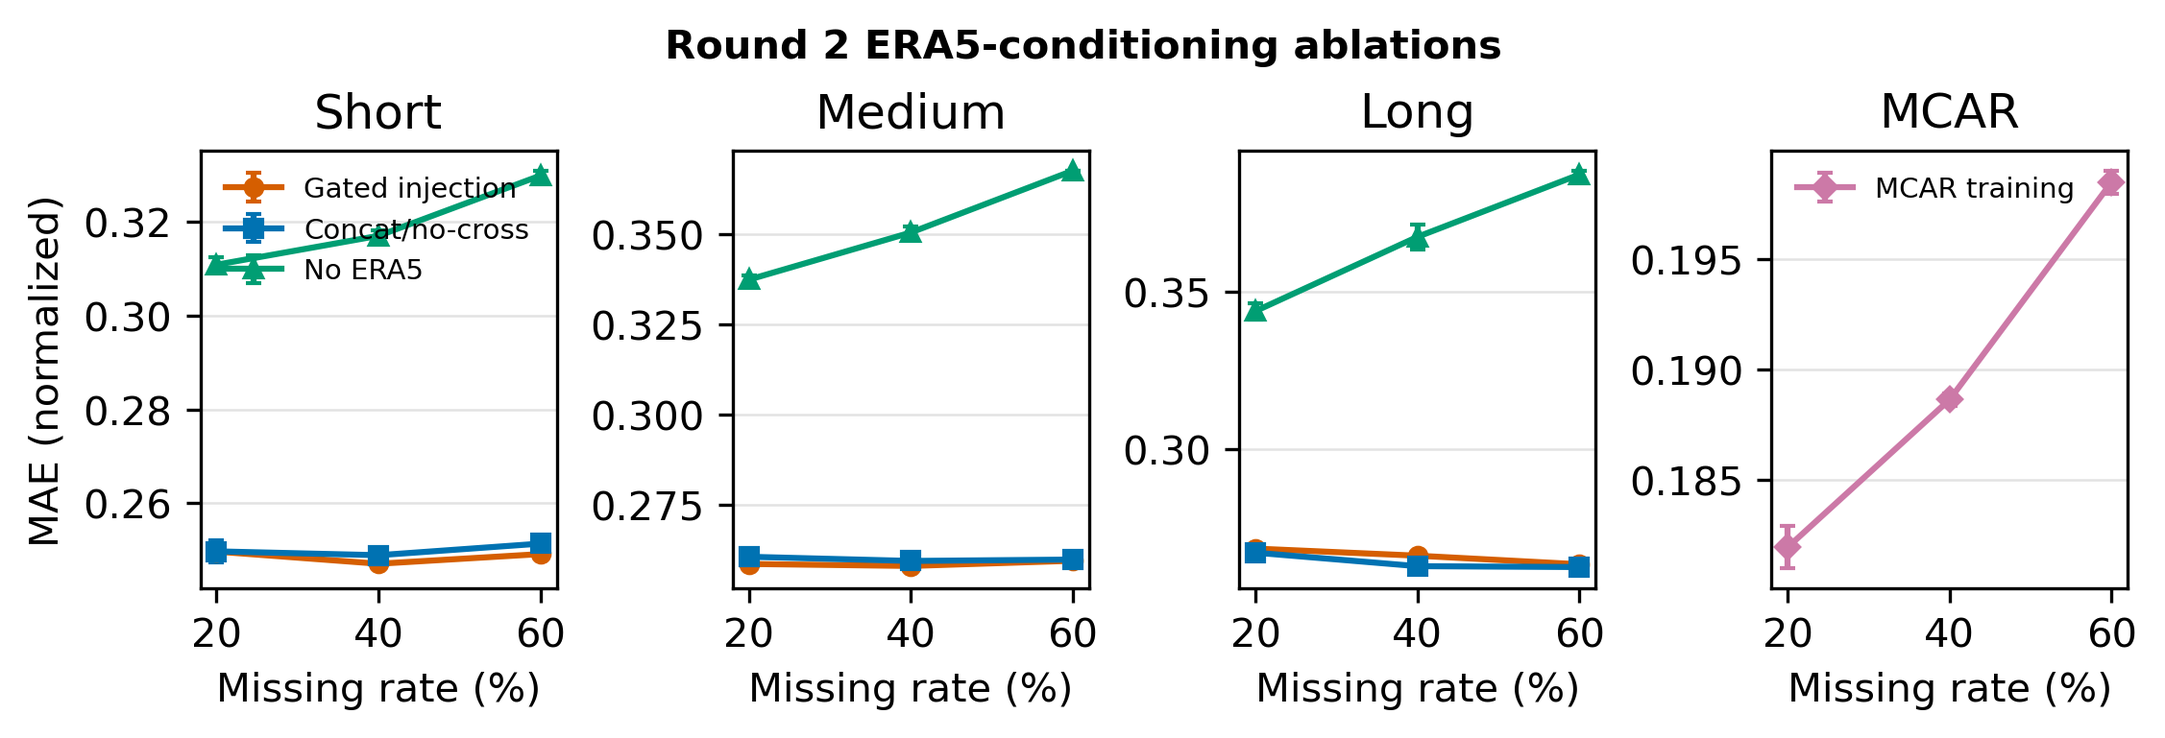
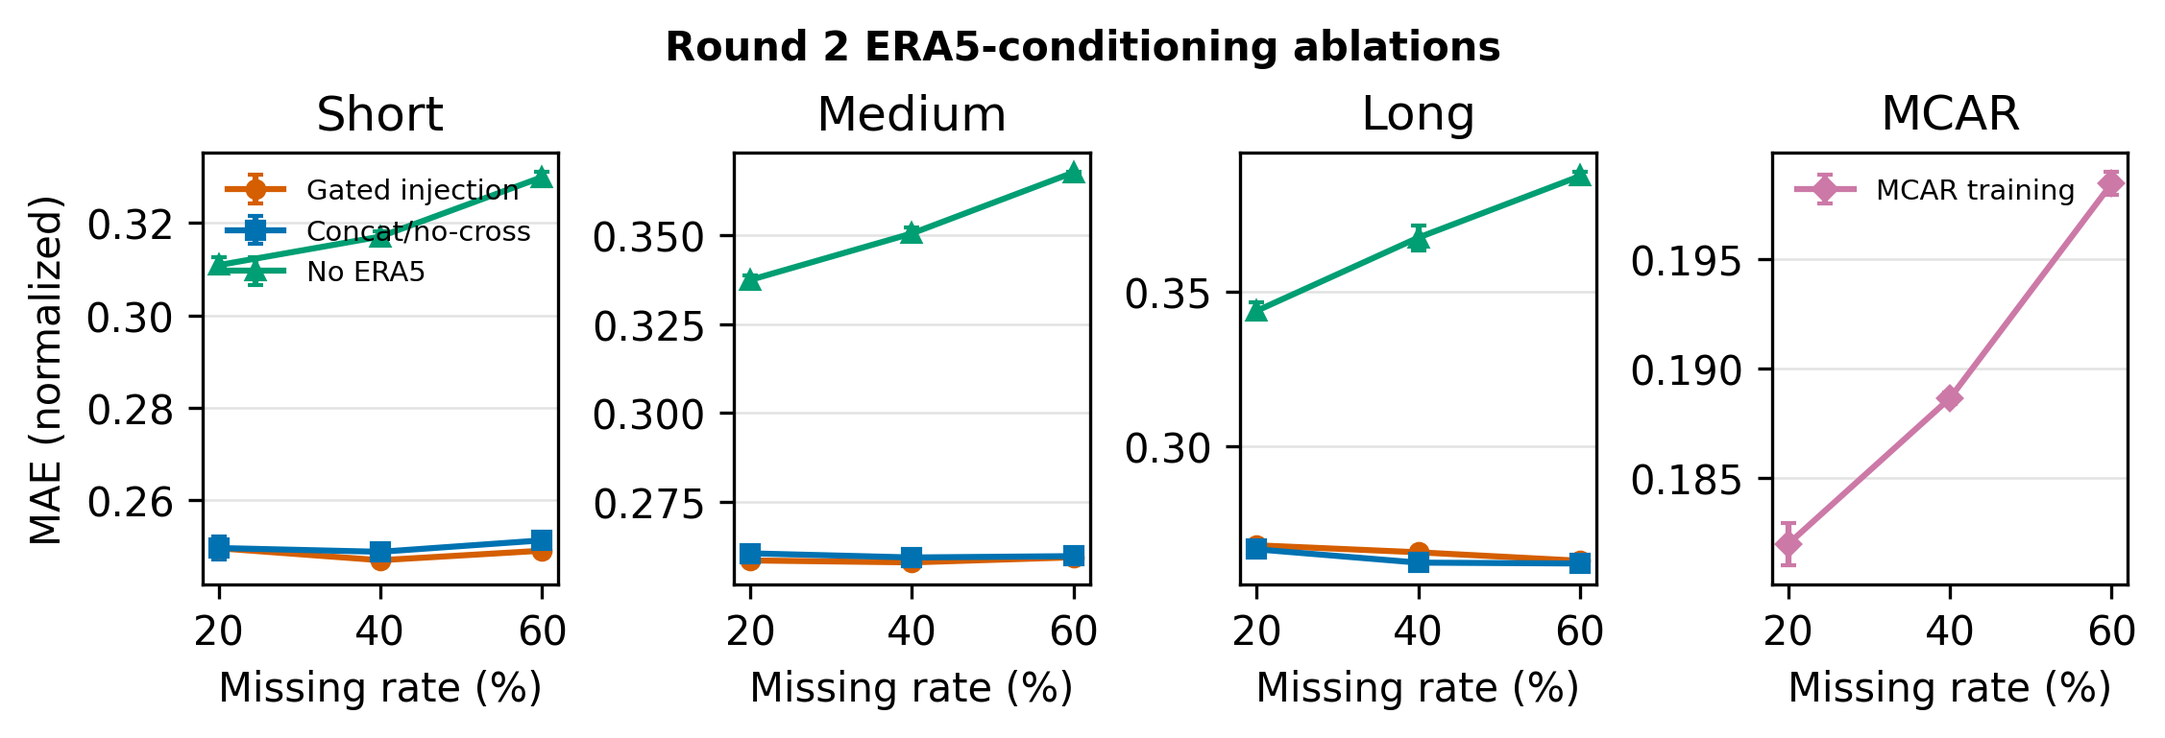
[paper] revise: address peer review comments

diff --git a/paper/sections/experiments.tex b/paper/sections/experiments.tex
@@ -36,13 +36,15 @@ Table~\ref{tab:round2-ablations} and Fig.~\ref{fig:round2-ablations} show the ma
 \begin{figure*}[t]
   \centering
   \includegraphics[width=0.92\textwidth]{figures/fig_round2_ablations.pdf}
-  \caption{ERA5-conditioning ablation results over block-missing and MCAR masking regimes. Removing ERA5 substantially degrades block-imputation accuracy, while gated injection is statistically tied with concat/no-cross fusion. The MCAR training setting is easier and is therefore reported separately rather than compared directly to block-missing results.}
+  \caption{ERA5-conditioning ablation results over block-missing and MCAR masking regimes. Error bars show one standard deviation across seeds and missing rates. Removing ERA5 substantially degrades block-imputation accuracy, while gated injection is statistically tied with concat/no-cross fusion. The MCAR training setting is easier and is therefore reported separately rather than compared directly to block-missing results.}
   \label{fig:round2-ablations}
 \end{figure*}
 
 \input{tables/tab_round2_ablations}
 
 The same ablation also prevents an over-interpretation of the architecture. Gated injection and concat/no-cross fusion are essentially tied, with mean MAE 0.258 in both cases. Therefore, the evidence supports ERA5-conditioned block imputation, but it does not support the stronger claim that a particular fusion layer is necessary.
+
+The MCAR row in Table~\ref{tab:round2-ablations} is included only as a distributional reference. Its MAE is not directly comparable to the block-missing rows because the model is trained and evaluated under a point-wise MCAR mask distribution, whereas the block variants are evaluated under contiguous outage blocks.
 
 \subsection{Does the ERA5 Benefit Increase for Longer Outages?}
 The block-length sensitivity analysis directly tests whether ERA5 is most useful when local station context is weakest. At 40\% missingness, the ERA5/no-ERA5 MAE gap increases from 0.037 for 24-hour blocks to 0.070 for 72-hour blocks and 0.092 for 216-hour blocks. The relative improvement grows from 13.8\% to 26.4\%.
@@ -69,11 +71,11 @@ Table~\ref{tab:curriculum-era5-factorial} completes the factorial check between 
 
 The factorized effect sizes show that block curriculum is the larger main effect. Averaged over ERA5 settings, changing MCAR training to block training reduces MAE by 0.166. Averaged over training curricula, adding ERA5 reduces MAE by 0.105. The difference-in-differences is positive but modest: ERA5 improves MCAR training by 0.122 MAE and block training by 0.088 MAE, corresponding to an effect-coded interaction of 0.017 MAE. Thus, the result is best described as two strong independent main effects with a small positive synergy, not as a purely architectural interaction.
 
-This result also explains why MCAR+ERA5 is worse than block training without ERA5. Under MCAR masks, the model sees scattered local context and can use ERA5 as an instantaneous auxiliary value. Under block failures, the required behavior is different: the model must use the temporal evolution of ERA5 across a long interval where AWS evidence is absent. ERA5 is therefore useful only when the training objective teaches the model to rely on it under contiguous outages.
+This result also explains why MCAR+ERA5 is worse than block training without ERA5. Under MCAR masks, the model usually sees scattered local AWS context at the same or adjacent time steps and can use ERA5 as an instantaneous auxiliary value. Under block failures, the required behavior is different: the model must follow the temporal evolution of ERA5 across a multi-day interval where the target AWS variable is absent. MCAR training does not teach this mode of use; it rewards local patching around isolated missing points rather than sustained reliance on the reanalysis trajectory. Consequently, even an ERA5-equipped MCAR model is less effective on block tests than a no-ERA5 model trained to reconstruct contiguous outages from station-side temporal and cross-variable context.
 
 \subsection{How Well Does the Model Generalize Across Stations?}
 Held-out station evaluation reveals substantial spatial heterogeneity. Mean MAE ranges from 0.173 on Nico to 0.350 on Mount Sidley. This variation is too large to hide behind a single aggregate score and likely reflects differences in station environment, elevation, coastal versus interior regimes, and station-specific ERA5 bias.
 
 \input{tables/tab_round3_heldout}
 
-The held-out results motivate future station-adaptive conditioning, but they do not invalidate the main result. They show that ERA5-conditioned block imputation transfers to unseen stations with variable difficulty, and that station-level reporting should be part of Antarctic AWS imputation benchmarks.
+Mount Sidley and Zhongshan illustrate two different hard cases. Mount Sidley is a high-elevation West Antarctic station in complex terrain, so point-sampled ERA5 may misrepresent near-surface temperature and wind conditions even when the synoptic evolution is correct. Zhongshan is a low-elevation coastal station, where sea-ice, ocean, and katabatic-flow interactions can introduce mesoscale variability that is difficult to capture at ERA5 grid scale. The held-out results therefore motivate future station-adaptive conditioning, but they do not invalidate the main result. They show that ERA5-conditioned block imputation transfers to unseen stations with variable difficulty, and that station-level reporting should be part of Antarctic AWS imputation benchmarks.

diff --git a/paper/sections/discussion.tex b/paper/sections/discussion.tex
@@ -20,12 +20,12 @@ The completed factorial matrix makes this conclusion quantitative. Block-missing
 \subsection{Practical Deployment Considerations}
 The temporal-resolution analysis suggests that ECBIT does not require fragile hour-level ERA5 structure. Downsampling ERA5 to 6-hour resolution changes MAE by less than 0.001, while daily inputs are clearly too coarse. This supports practical deployments where only lower-frequency reanalysis products or delayed operational reanalysis streams are available, provided that sub-daily temporal structure is preserved.
 
-The variable-importance results also suggest a prioritization rule for partial ERA5 availability. Temperature, wind speed, and specific humidity are the most valuable channels; pressure and relative humidity contribute less in the current benchmark. If a deployment pipeline must reduce ERA5 variables, the top three channels should be preserved first.
+The variable-importance results also suggest a prioritization rule for partial ERA5 availability. Temperature, wind speed, and specific humidity are the most valuable channels and account for about 84\% of the total single-channel masking degradation; pressure and relative humidity contribute less in the current benchmark. If a deployment pipeline must reduce ERA5 variables, the top three channels should be preserved first.
 
 The held-out station results further suggest that deployment should include station-level validation. Mean MAE ranges from 0.173 to 0.350 across the five held-out stations, so high-elevation, coastal, or locally complex stations should be checked before operational use rather than assumed to follow the aggregate benchmark average.
 
 \subsection{Station Heterogeneity}
-Held-out station results vary by roughly a factor of two, from Nico to Mount Sidley. This heterogeneity likely reflects a combination of local geography, elevation, coastal versus interior climate regimes, and station-specific ERA5 representativeness. In particular, high-elevation sites and coastal stations can experience local processes that are difficult for point-sampled reanalysis to capture. Future work should therefore consider station-adaptive conditioning, metadata-aware calibration, or few-shot adaptation for stations with large ERA5 bias.
+Held-out station results vary by roughly a factor of two, from Nico to Mount Sidley. This heterogeneity likely reflects a combination of local geography, elevation, coastal versus interior climate regimes, and station-specific ERA5 representativeness. Mount Sidley has the largest held-out MAE. In the selected metadata it is also the highest held-out station, at 2123 m, and lies in West Antarctic complex terrain where coarse reanalysis orography and boundary-layer structure can be mismatched to the local AWS footprint. Zhongshan has the second-largest MAE despite its low elevation, plausibly because its coastal setting is affected by sea-ice, ocean, and local wind interactions that are not fully resolved by point-sampled ERA5. Future work should therefore consider station-adaptive conditioning, metadata-aware calibration, or few-shot adaptation for stations with large ERA5 bias.
 
 \subsection{Limitations}
-The benchmark uses artificial masks on originally observed positions, which provides controlled ground truth but does not directly evaluate recovery inside historical gaps where no AWS observation exists. ERA5 is aligned at station points and shares the selected variable set; other reanalysis products, spatial interpolation strategies, or station metadata may change the optimal conditioning strategy. Finally, while BRITS and SAITS wrappers are implemented, the completed result matrix does not yet include a full third-party imputation suite under identical block-missing conditions. The current study instead focuses on isolating the ERA5 and block-curriculum effects; broader third-party baseline coverage is a natural extension.
+The benchmark uses artificial masks on originally observed positions, which provides controlled ground truth but does not directly evaluate recovery inside historical gaps where no AWS observation exists. ERA5 is aligned at station points and shares the selected variable set; other reanalysis products, spatial interpolation strategies, or station metadata may change the optimal conditioning strategy. Finally, the completed result matrix prioritizes a controlled 2$\times$2 curriculum-by-ERA5 factorial design over a broad third-party imputation suite. BRITS and SAITS wrappers are implemented, but complete block-curriculum retraining and evaluation for those methods is left for future benchmarking; the current study isolates why ERA5 and block-missing curriculum matter before expanding the model zoo.

diff --git a/paper/sections/introduction.tex b/paper/sections/introduction.tex
@@ -4,13 +4,13 @@ Continuous near-surface meteorological observations are central to Antarctic cli
 
 This paper studies imputation rather than forecasting. In imputation, the model must reconstruct missing station observations inside a window while preserving the available observations. ERA5 reanalysis provides a physically coherent meteorological background \cite{hersbach2020era5}, but using it naively can be counterproductive: when AWS observations are present, ERA5 often duplicates already available temperature and pressure information; when relative humidity is biased, always-on fusion can inject error. We therefore use ERA5 as a conditional prior that is activated by missingness.
 
-We propose ERA5-Conditioned Block Imputation Transformer (ECBIT), a dual-stream variate-token transformer for sparse Antarctic AWS time series. The observation stream encodes normalized AWS values, observation masks, and time features. The ERA5 stream encodes aligned ERA5 variables. A gated feature-injection layer projects ERA5 tokens into the AWS token space, while a missing-variable mask allows ERA5 information to modify only variables that contain missing positions. Loss is evaluated only on artificially hidden positions that were truly observed in the raw record.
+We propose ERA5-Conditioned Block Imputation Transformer (ECBIT), a dual-stream variate-token transformer for sparse Antarctic AWS time series. The observation stream encodes normalized AWS values, observation masks, and time features. The ERA5 stream encodes aligned ERA5 variables. A lightweight ERA5 conditioning mechanism projects reanalysis tokens into the AWS token space, while a missing-variable mask allows ERA5 information to modify only variables that contain missing positions. Loss is evaluated only on artificially hidden positions that were truly observed in the raw record.
 
 The current benchmark contains 32 selected AntAWS stations with at least 10 years of record and sufficient multi-variable completeness. Five geographically diverse stations are reserved for held-out generalization. ERA5 point time series are downloaded and aligned to the exact AntAWS 3-hourly timestamps, producing 41,388 sparse 168-step windows. The experimental matrix covers interpolation, last-observation-carried-forward, ERA5 direct substitution, an iTransformer-style imputation baseline \cite{liu2024itransformer}, and ECBIT ablations.
 
 The contributions are:
 \begin{itemize}
-  \item a realistic Antarctic AWS block-imputation benchmark with sparse observation masks, aligned ERA5 inputs, block-failure simulation, and held-out station splits;
-  \item quantitative evidence that ERA5 conditioning is most valuable under long contiguous outages, where local station context is weakest;
-  \item a factorial ablation showing that block-missing curriculum (0.166 MAE reduction) and ERA5 conditioning (0.105 MAE reduction) are independently important and complementary, with ERA5 value concentrated in temperature, wind speed, and specific humidity channels.
+  \item a realistic block-missing curriculum and Antarctic AWS benchmark with sparse observation masks, aligned ERA5 inputs, block-failure simulation, and held-out station splits; the curriculum yields an average 0.166 MAE reduction and lowers long-block MAE from 0.469 to 0.266 when ERA5 is present;
+  \item quantitative evidence that ERA5 conditioning has causal value under contiguous outages, with an average 0.105 MAE reduction and a relative benefit that grows from 13.8\% for 24-hour gaps to 26.4\% for 216-hour gaps;
+  \item a factorial ablation showing that the two factors are jointly necessary: MCAR training with ERA5 remains worse than block training without ERA5, while gated and concat fusion are statistically tied.
 \end{itemize}

diff --git a/paper/sections/related_work.tex b/paper/sections/related_work.tex
@@ -8,7 +8,7 @@ Classical imputation baselines such as linear interpolation and last-observation
 
 Recent benchmarking work has emphasized that time-series imputation results depend strongly on evaluation protocol. TSI-Bench standardizes deep imputation evaluation across many algorithms, datasets, and missingness scenarios \cite{du2024tsibench}. ECBIT is complementary to such generic benchmarks: instead of evaluating broad imputation algorithms under generic missingness, it constructs a domain-specific Antarctic AWS benchmark in which the central question is whether ERA5 helps under realistic contiguous outage blocks.
 
-Recent work on auxiliary information in time series also cautions against unconstrained fusion. Lee et al. argue that naive multimodal fusion can underperform because auxiliary modalities may inject irrelevant information, and propose constrained fusion adapters for time-series settings \cite{lee2026constrainedfusion}. Cao and Wang similarly motivate physically grounded selection of meteorological exogenous variables rather than treating all auxiliary channels as uniformly useful \cite{cao2026ecto}. ECBIT's negative fusion result is consistent with this trend: the empirical value lies less in a complex fusion block and more in matching the failure mode while controlling how external meteorological context enters the model.
+Recent work on auxiliary information in time series also cautions against unconstrained fusion. Lee et al. show across more than 20,000 experiments that naive multimodal fusion can underperform because auxiliary modalities may inject irrelevant information, and propose constrained fusion adapters for time-series settings \cite{lee2026constrainedfusion}. Cao and Wang similarly motivate physically grounded selection of meteorological exogenous variables rather than treating all auxiliary channels as uniformly useful \cite{cao2026ecto}. Chen et al. identify inconsistent effects across exogenous variables and propose a ``select, then balance'' ExoST framework that dynamically selects and balances exogenous signals \cite{chen2025exost}. ECBIT's negative fusion result is consistent with this trend: the empirical value lies less in a complex fusion block and more in matching the failure mode while controlling how external meteorological context enters the model.
 
 \subsection{Variate-Token Transformers}
 iTransformer inverts the standard time-token representation and treats each variable's full lookback sequence as a token, allowing attention to model multivariate correlations \cite{liu2024itransformer}. ECBIT adopts this variate-token view for imputation, where each AWS variable and each ERA5 variable is represented over the full 168-step window. Unlike forecasting-only iTransformer, ECBIT includes observation masks, reconstructs the full window, and gates external ERA5 conditioning by missing variables.

diff --git a/paper/sections/experimental_protocol.tex b/paper/sections/experimental_protocol.tex
@@ -5,10 +5,12 @@ All reported neural results are evaluated on held-out test windows using the che
 
 The main block-missing experiments use three outage regimes: short, medium, and long blocks. Missing rates are 20\%, 40\%, and 60\%, with three random seeds for each configuration. The held-out station experiment evaluates transfer to five stations excluded from model training at 40\% block missingness.
 
+Neural models are trained for at most 50 epochs with AdamW, learning rate $10^{-4}$, weight decay $10^{-4}$, batch size 32, and early stopping after 10 validation epochs without improvement. Test evaluation uses batch size 64. All neural training and evaluation runs are executed on the remote GPU server; local computation is limited to preprocessing, aggregation, plotting, and LaTeX compilation.
+
 \subsection{Baselines}
 We compare against four core baselines. Linear interpolation and last-observation-carried-forward test whether local temporal continuity is sufficient. ERA5 direct substitution fills missing positions with bias-corrected ERA5 values while preserving observed AWS values, testing the strength of reanalysis alone. The iTransformer imputation baseline tests a neural variate-token model without ERA5 conditioning.
 
-We also implemented wrappers for BRITS and SAITS, but the current completed result matrix focuses on the baselines above and the ECBIT ablations. This avoids mixing incomplete third-party baseline runs into the main claims. BRITS and SAITS remain relevant methodological references because they represent recurrent and self-attention imputation families, respectively.
+We also implemented wrappers for BRITS and SAITS, but the current completed result matrix focuses on the baselines above and the ECBIT ablations because the main scientific question is to isolate the effects of block curriculum and ERA5 conditioning under identical model and data plumbing. Since BRITS and SAITS are usually trained under random-missing assumptions, we expect their direct block-test behavior to resemble the MCAR-trained no-ERA5 cell unless they are retrained with the same block curriculum. Full third-party block-missing baseline coverage is therefore left as an extension rather than mixed into the current factorial claims.
 
 \subsection{Ablations and Follow-up Analyses}
 The primary ECBIT ablation compares gated ERA5 injection, concat/no-cross fusion, and no-ERA5 training under matched block-missing conditions. A no-blockmask variant trains with MCAR masks and is reported separately because its training distribution differs from the block-failure regime.

diff --git a/paper/sections/methodology.tex b/paper/sections/methodology.tex
@@ -17,6 +17,8 @@ Real AntAWS missingness is block-structured. We therefore sample contiguous outa
 \subsection{ECBIT Architecture}
 ECBIT uses two variate-token encoders. For each variable $c$, the observation token is formed from its full time series, the observation mask, and shared time encodings. ERA5 tokens are formed from the aligned ERA5 variable and the same time encodings. Transformer encoders produce $Z^{aws}, Z^{era5} \in \mathbb{R}^{C \times d}$.
 
+In the experiments, each 168-step variable trajectory is flattened with its auxiliary mask and time features and projected to a $d=128$ token embedding. The AWS and ERA5 streams each use three transformer encoder layers, eight attention heads, a feed-forward width of 256, dropout of 0.1, and layer normalization. Time encodings contain shared calendar features for the 3-hourly window, so the variate token represents both the variable trajectory and its position within the seasonal and diurnal cycle.
+
 \begin{figure*}[t]
   \centering
   \resizebox{0.98\textwidth}{!}{\input{figures/fig_ecbit_arch}}
@@ -29,7 +31,7 @@ The final ECBIT variant uses gated feature injection. ERA5 tokens are first proj
 \Delta^{era5} = W_e Z^{era5}, \quad
 s = \sigma(W_g [Z^{aws}; Z^{era5}]).
 \end{equation}
-A missing-variable gate $g_c=\mathbb{1}[\sum_t M_{t,c}>0]$ controls whether ERA5 can alter the AWS representation:
+Here $s_c$ denotes the slice of $s$ corresponding to variable $c$. A missing-variable gate $g_c=\mathbb{1}[\sum_t M_{t,c}>0]$ controls whether ERA5 can alter the AWS representation:
 \begin{equation}
 Z_c = \mathrm{LayerNorm}(Z^{aws}_c + g_c\, s_c \odot \Delta^{era5}_c).
 \end{equation}

diff --git a/scripts/plot_round2_ablations.py b/scripts/plot_round2_ablations.py
@@ -10,7 +10,7 @@ import matplotlib.pyplot as plt
 import pandas as pd
 
 
-RUNS_CSV = Path("experiments/results/tables/round2_partial_runs.csv")
+RUNS_CSV = Path("experiments/results/tables/round2_gated_final_runs.csv")
 OUT_PDF = Path("paper/figures/fig_round2_ablations.pdf")
 OUT_PNG = Path("paper/figures/fig_round2_ablations.png")
 

diff --git a/agent/progress.md b/agent/progress.md
@@ -255,3 +255,10 @@
 - Launched three additional catch-up workers for `followup_mcar_noera5` on idle GPU0/GPU1/GPU5 using `world-size 6` and existing per-run locks. They entered `long_r60` configs while the original GPU2-GPU4 workers continued `long_r40`.
 - `followup_mcar_noera5` training completed 27/27 with no log errors. Block-mask evaluation completed for all 27 MCAR-trained no-ERA5 checkpoints: short MAE 0.4230, medium 0.5460, long 0.6192, overall 0.5294. Generated `experiments/results/tables/curriculum_era5_factorial.csv` and `paper/tables/tab_curriculum_era5_factorial.tex`, then inserted the completed 2x2 factorial table into Results.
 - Refined the manuscript around the completed 2x2 factorial result. Updated the abstract, contribution list, Results factorial subsection, factorial table caption, Related Work, and Discussion. Added main-effect estimates (block curriculum 0.166 MAE, ERA5 0.105 MAE) and the small positive effect-coded interaction (0.017 MAE). Verified and cited arXiv 2603.22372 and 2605.12196 for constrained/physically grounded auxiliary fusion context.
+
+### Peer Review Revision 05-23-1
+- Read `agent/05-23-1-peer-review.md` and applied the P0/P1/P2 manuscript revisions that do not require new training.
+- Neutralized architecture wording in the Introduction from a specific gated-layer contribution to a lightweight ERA5 conditioning mechanism, and reordered contributions around block-missing curriculum, ERA5 causal value, and the completed factorial ablation.
+- Expanded Related Work with ExoST (`arXiv:2509.05779`) after verifying the arXiv metadata, and positioned ECBIT's fusion null result alongside constrained/selected exogenous-fusion literature.
+- Added ECBIT architecture and training details, clarified the $s_c$ gate notation, expanded the MCAR-vs-block physical explanation, clarified MCAR table comparability, and deepened held-out Mount Sidley/Zhongshan station interpretation.
+- Reframed BRITS/SAITS limitations as future block-curriculum third-party baseline coverage, added practical ERA5 deployment details, switched the Round2 ablation plot to final gated runs, regenerated `fig_round2_ablations`, and verified `latexmk -pdf -interaction=nonstopmode -halt-on-error main.tex` succeeds with no LaTeX warnings found by log scan.
